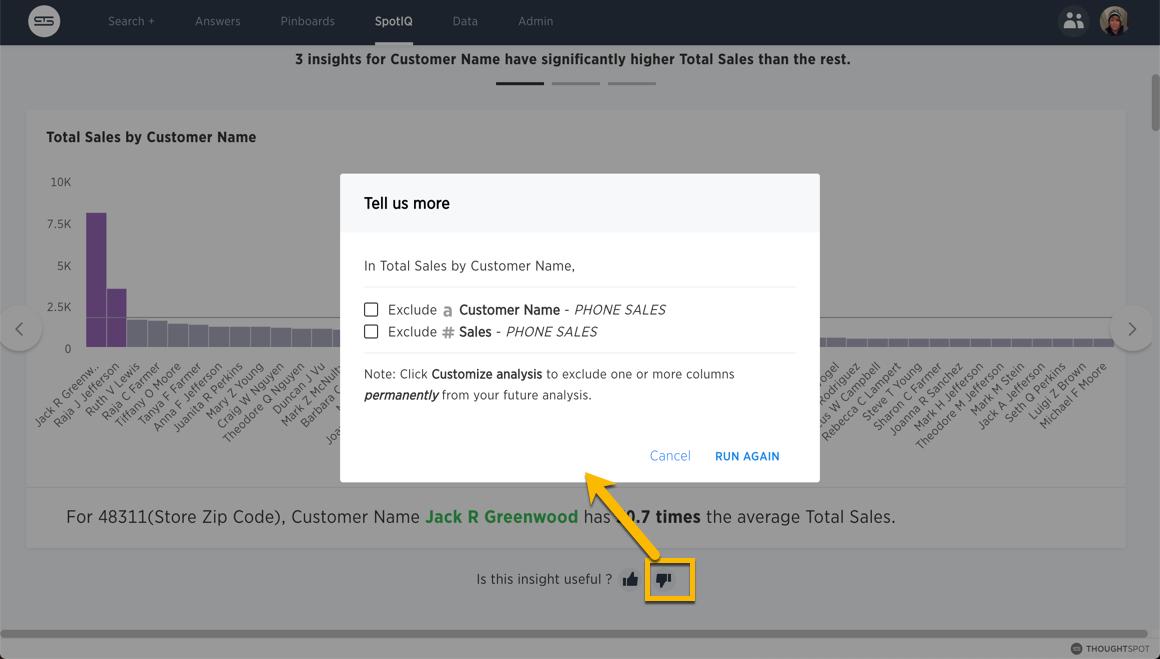
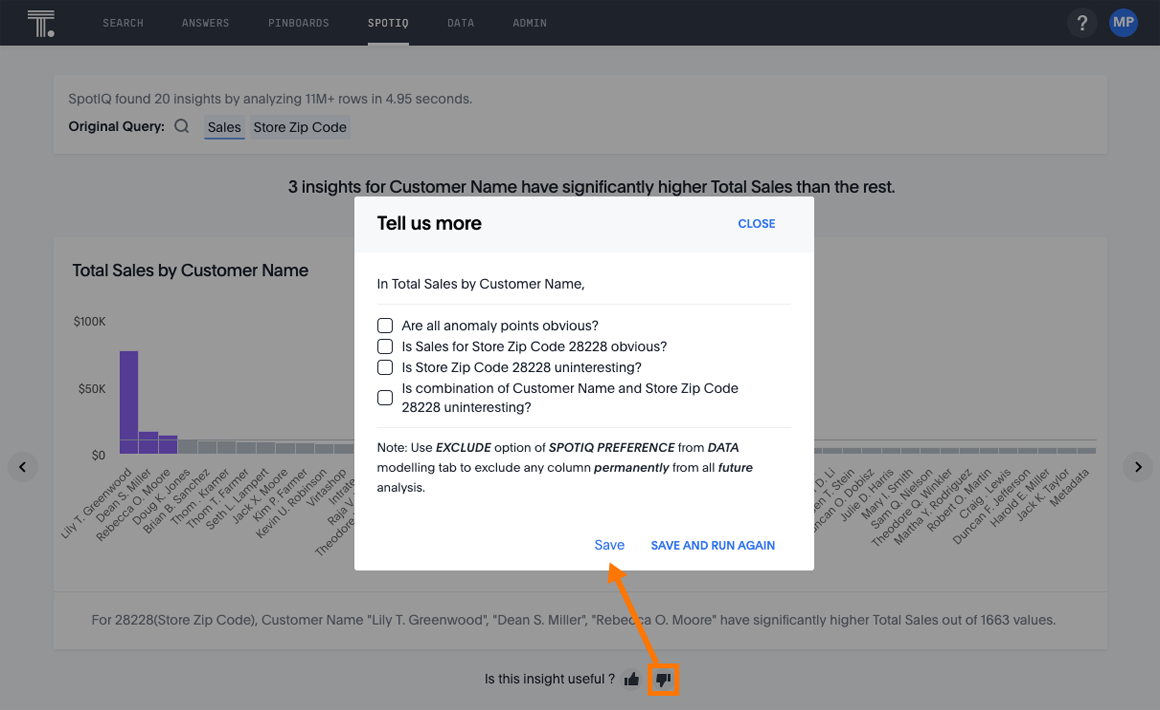
further updates to the Custom SpotIQ Analysis page

Changed region(s): [[0.0, 0.2428, 0.9931, 1.0], [0.0, 0.0, 1.0, 0.2124]]

diff --git a/_spotiq/customization.md b/_spotiq/customization.md
@@ -6,7 +6,7 @@ last_updated: tbd
 sidebar: mydoc_sidebar
 permalink: /:collection/:path.html
 ---
-Everywhere in ThoughtSpot where you can run **SpotIQ analyze** , you
+Everywhere in ThoughtSpot where you can run **SpotIQ analyze**, you
 can configure a customized SpotIQ analysis. The customized analysis can be
 a one-time customization or can apply to all future analysis of that particular
 data source.
@@ -32,17 +32,17 @@ The **Advanced** tab has many options. (The panel scrolls, so more algorithms ar
 
  ![]({{ site.baseurl }}/images/spotiq-customize-algorithms.png)
 
-The **SpotIQ** insights page has an option for this dialog and also an option to
+The **SpotIQ** insights page has an option to open this window to
 customize a single analysis.
 
 ![]({{ site.baseurl }}/images/spotiq-customize-locations.png)
 
-The **Improve Analysis** dialog always excludes a value from all future analysis.
+The **Tell us more** window provides information on how to exclude a value from all future analysis.
 
 ![]({{ site.baseurl }}/images/spotiq-customize-improve-analysis.png)
 
-You can set a subset of SpotIQ customization parameters in your
-[profile preferences]({{ site.baseurl }}/_end-user/introduction/about-user.html), along with options for email notifications when analyses run.
+You can set SpotIQ customization parameters in your
+[SpotIQ preferences]({{ site.baseurl }}/_spotiq/spotiq-preferences.html), along with options for email notifications when analyses run.
 
 ## Eliminate null values
 
@@ -56,7 +56,7 @@ Null values should be eliminated from your analysis.
   <tr>
     <td>
     <!-- next -->
-    <p>In the Search bar, add a filter <code><i>column</i>!= Null</code> to the search bar. Or choose <b>Exclude null values from current analysis</b>, using the <b>Customize algorithms</b> panel.</p>
+    <p>In the Search bar, add a filter <code><i>column</i>!= Null</code> to the search bar. Or choose <b>Exclude null values from current analysis</b>, using the <b>Advanced</b> panel.</p>
     </td>
     <td>
     <!-- future -->
@@ -77,18 +77,14 @@ You should always exclude columns you are not interested from your analysis.
   <tr>
     <td>
     <!-- next -->
-    <p>Exclude a column using <b>Improve Analysis</b> on a visualization. Or set the value through the <b>Excluded columns</b> tab of the <b>Customize Analysis</b> panel.</p>
-    </td>
-    <td>
-    <!-- future -->
-    Choose <b>Also exclude from all my future analysis</b> on the <b>Excluded columns</b> tab of the <b>Customize Analysis</b> panel. Alternatively, exclude using the <b>Improve Analysis</b> dialog on an insight that uses the column you want to exclude.
+    <p>Use the <b>EXCLUDE</b> option of <b>SPOTIQ PREFERENCE</b> under the <b>DATA</b> tab to exclude any column permanently from all future analysis.</p>
     </td>
   </tr>
 </table>
 
 ## Include an interesting column
 
-You can always includes columns that interest you in your analysis.  
+You can always include columns that interest you in your analysis.  
 
 <table>
   <tr>
@@ -98,11 +94,11 @@ You can always includes columns that interest you in your analysis.
   <tr>
     <td>
     <!-- next -->
-    <p>Choose <b>Customize Analysis</b> and select to <b>Include columns</b> that you want to appear.</p>
+    <p>Choose <b>Customize analysis</b> and select columns that you want to include.</p>
     </td>
     <td>
     <!-- future -->
-    Ensure **Index Priority** is between 8-10 on the column through data modeling.
+    Ensure <b>Index Priority</b> is between 8-10 on the column under the <b>DATA</b> tab.
     </td>
   </tr>
 </table>
@@ -110,7 +106,7 @@ You can always includes columns that interest you in your analysis.
 
 ## Remove known date outliers
 
-Your data may contain known outliers. For example, you are in the middle of a quarter and only want to analyize the previous quarter. Anything from the present quarter could contain an outlier.
+Your data may contain known outliers. For example, you are in the middle of a quarter and only want to analyze the previous quarter. Anything from the present quarter could contain an outlier.
 
 <table>
   <tr>
@@ -141,7 +137,7 @@ Your SpotIQ analysis may not provide you as many insights as you think it should
   <tr>
     <td>
     <!-- next -->
-    <p>Choose <b>Customize Analysis</b> and <b>Customize algorithms</b> Decrease the <b>Multiplier for Outlier Detection</b> to a value closer to zero.
+    <p>Choose <b>Customize analysis</b>, select the <b>Advanced</b> tab, and decrease the <b>Multiplier for Outlier Detection</b> to a value closer to zero.
 </p>
 </td>
     <td>
